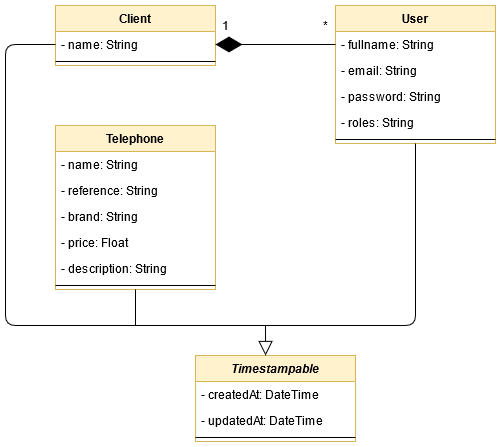
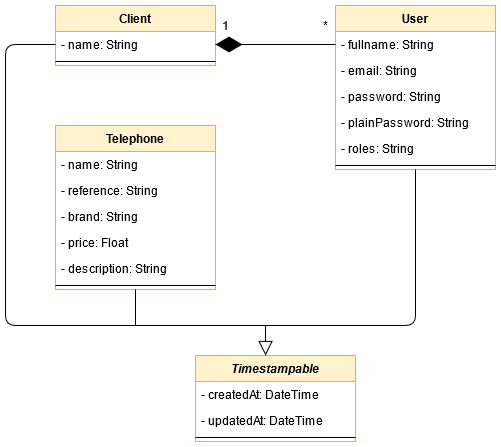
refactor: add typed properties on entities

Changed region(s): [[0.6886, 0.2617, 0.9581, 0.2908], [0.6587, 0.3199, 0.8383, 0.3781], [0.988, 0.3199, 1.0, 0.3781]]

diff --git a/src/Entity/User.php b/src/Entity/User.php
@@ -4,6 +4,7 @@ namespace App\Entity;
 
 use App\Entity\Traits\TimestampableTrait;
 use App\Repository\UserRepository;
+use DateTime;
 use Doctrine\ORM\Mapping as ORM;
 use Symfony\Component\Security\Core\User\UserInterface;
 
@@ -20,34 +21,40 @@ class User implements UserInterface
      * @ORM\GeneratedValue
      * @ORM\Column(type="integer")
      */
-    private $id;
+    private int $id;
 
     /**
      * @ORM\Column(type="string", length=180, unique=true)
      */
-    private $email;
+    private string $email;
 
     /**
      * @ORM\Column(type="json")
      */
-    private $roles = [];
+    private array $roles = [];
 
     /**
-     * @var string The hashed password
      * @ORM\Column(type="string")
      */
-    private $password;
+    private string $password;
+
+    private ?string $plainPassword;
 
     /**
      * @ORM\ManyToOne(targetEntity=Client::class, inversedBy="users")
      * @ORM\JoinColumn(nullable=false)
      */
-    private $client;
+    private Client $client;
 
     /**
      * @ORM\Column(type="string", length=80)
      */
-    private $fullname;
+    private string $fullname;
+
+    public function __construct()
+    {
+        $this->createdAt = new DateTime();
+    }
 
     public function getId(): ?int
     {
@@ -73,7 +80,7 @@ class User implements UserInterface
      */
     public function getUsername(): string
     {
-        return (string) $this->email;
+        return $this->email;
     }
 
     /**
@@ -100,12 +107,24 @@ class User implements UserInterface
      */
     public function getPassword(): string
     {
-        return (string) $this->password;
+        return $this->password;
     }
 
     public function setPassword(string $password): self
     {
         $this->password = $password;
+
+        return $this;
+    }
+
+    public function getPlainPassword(): ?string
+    {
+        return $this->plainPassword;
+    }
+
+    public function setPlainPassword(string $plainPassword): self
+    {
+        $this->plainPassword = $plainPassword;
 
         return $this;
     }
@@ -124,10 +143,9 @@ class User implements UserInterface
     /**
      * @see UserInterface
      */
-    public function eraseCredentials()
+    public function eraseCredentials(): void
     {
-        // If you store any temporary, sensitive data on the user, clear it here
-        // $this->plainPassword = null;
+        $this->plainPassword = null;
     }
 
     public function getClient(): ?Client

diff --git a/src/Entity/Client.php b/src/Entity/Client.php
@@ -4,6 +4,7 @@ namespace App\Entity;
 
 use App\Entity\Traits\TimestampableTrait;
 use App\Repository\ClientRepository;
+use DateTime;
 use Doctrine\Common\Collections\ArrayCollection;
 use Doctrine\Common\Collections\Collection;
 use Doctrine\ORM\Mapping as ORM;
@@ -20,21 +21,22 @@ class Client
      * @ORM\GeneratedValue
      * @ORM\Column(type="integer")
      */
-    private $id;
+    private int $id;
 
     /**
      * @ORM\Column(type="string", length=80)
      */
-    private $name;
+    private string $name;
 
     /**
      * @ORM\OneToMany(targetEntity=User::class, mappedBy="client", orphanRemoval=true)
      */
-    private $users;
+    private Collection $users;
 
     public function __construct()
     {
-        $this->users = new ArrayCollection();
+        $this->users     = new ArrayCollection();
+        $this->createdAt = new DateTime();
     }
 
     public function getId(): ?int
@@ -74,11 +76,10 @@ class Client
 
     public function removeUser(User $user): self
     {
-        if ($this->users->removeElement($user)) {
-            // set the owning side to null (unless already changed)
-            if ($user->getClient() === $this) {
-                $user->setClient(null);
-            }
+        // set the owning side to null (unless already changed)
+        if ($this->users->removeElement($user)
+            && $user->getClient() === $this) {
+            $user->setClient(null);
         }
 
         return $this;

diff --git a/src/Entity/Telephone.php b/src/Entity/Telephone.php
@@ -4,6 +4,7 @@ namespace App\Entity;
 
 use App\Entity\Traits\TimestampableTrait;
 use App\Repository\TelephoneRepository;
+use DateTime;
 use Doctrine\ORM\Mapping as ORM;
 
 /**
@@ -18,36 +19,36 @@ class Telephone
      * @ORM\GeneratedValue
      * @ORM\Column(type="integer")
      */
-    private $id;
+    private int $id;
 
     /**
      * @ORM\Column(type="string", length=80)
      */
-    private $name;
+    private string $name;
 
     /**
      * @ORM\Column(type="string", length=30)
      */
-    private $reference;
+    private string $reference;
 
     /**
      * @ORM\Column(type="string", length=80)
      */
-    private $brand;
+    private string $brand;
 
     /**
      * @ORM\Column(type="float", nullable=true)
      */
-    private $price;
+    private ?float $price;
 
     /**
      * @ORM\Column(type="text", nullable=true)
      */
-    private $description;
+    private ?string $description;
 
     public function __construct()
     {
-        $this->createdAt = new \DateTime();
+        $this->createdAt = new DateTime();
     }
 
     public function getId(): ?int
